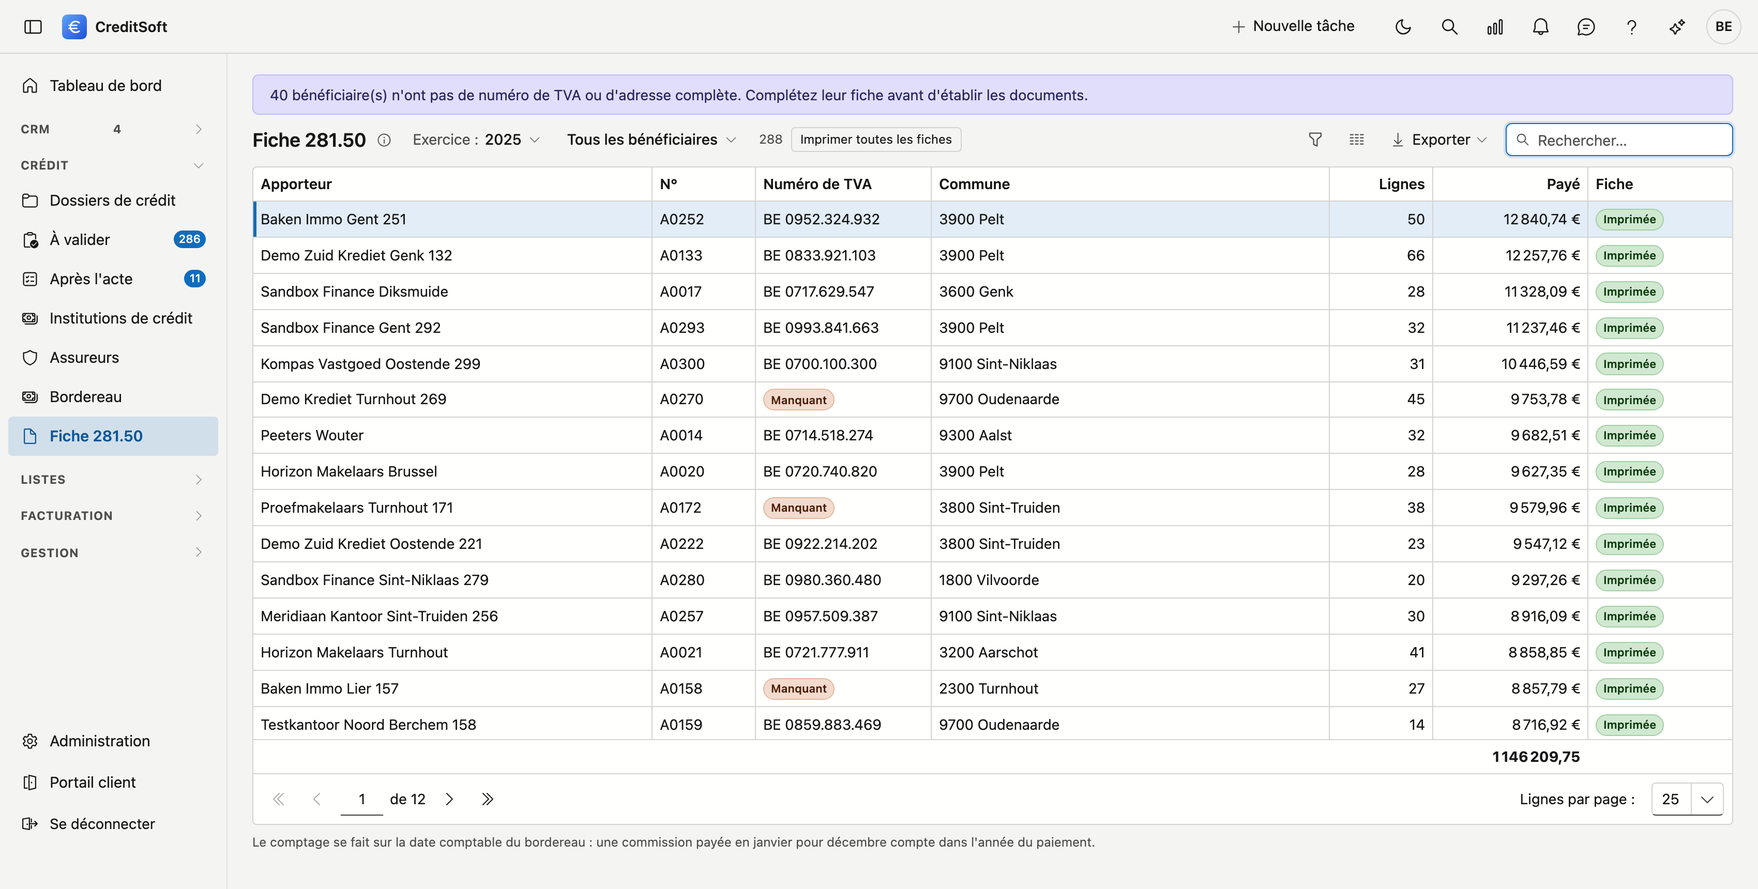
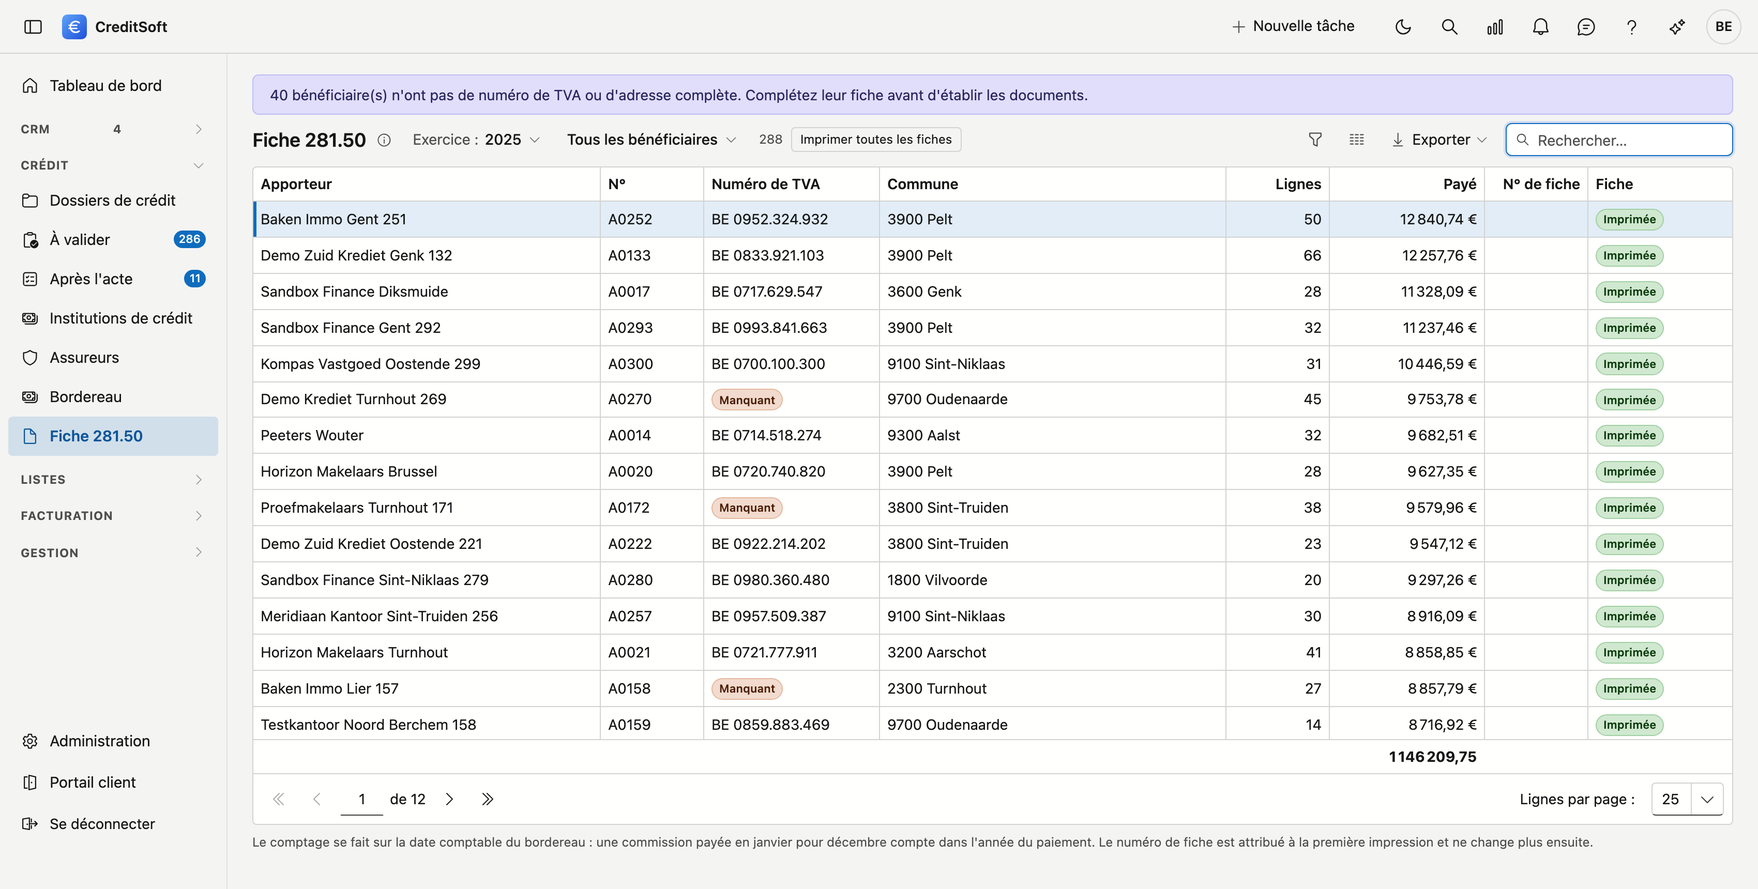
Fiche 281.50: volgnummer, en apart voor aanbrengers die zelf uitbetalen (app 1.203.4, NL+FR)
- Nieuwe portaalpagina Fiches 281.50 voor mijn makelaars (NL+FR), in de nav en de portaalindex.
- Fiche 281.50 (backoffice): kolom Fichenr., hoofdstuk Het fichenummer, en wat een aanbrenger zelf
  uitbetaalt staat niet in de lijst. Beeld NL/FR hernomen (app a103c75c, klok 01/09/2026).
- Borderel: wat een aanbrenger zelf afrekent staat niet in het overzicht of bij de borderellen; eigen reeks.
- Portaal › Afrekeningen: eigen nummerreeks van de borderellen.

diff --git a/docs/portaal/fiches-281-50.fr.md b/docs/portaal/fiches-281-50.fr.md
@@ -1,0 +1,67 @@
+# Fiches 281.50 pour mes courtiers
+
+Si vous versez des commissions à vos propres courtiers, vous êtes le **débiteur** de ces montants. Vous établissez vous-même leur fiche fiscale 281.50 ici, et vous la déclarez vous-même.
+
+!!! info "Pour qui ?"
+    Uniquement pour un bureau qui décompte des commissions à ses propres courtiers (voir [Décomptes à mes courtiers](afrekeningen.md)). La rubrique **Fiche 281.50** apparaît dans la barre de menu dès que vous avez décompté une première clôture.
+
+## Ouvrir l'écran
+
+Dans le portail, cliquez en haut sur **Fiche 281.50**.
+
+Vous ne voyez que ce que **vous** avez versé à vos courtiers. Ce que le bureau vous verse lui-même n'apparaît pas ici : cette fiche, c'est le bureau qui l'établit.
+
+## Sur quoi porte le comptage
+
+Le comptage se fait sur la **date du document de votre clôture** : le moment où l'argent est parti, et non le mois pour lequel la commission était comptabilisée. Une commission de décembre que vous décomptez en janvier compte dans l'année du paiement.
+
+!!! info "L'écran s'ouvre sur l'année précédente"
+    De l'année en cours, tout n'est par définition pas encore payé. Si vous souhaitez tout de même suivre ce qui est déjà parti cette année, choisissez l'exercice en cours.
+
+## Ce que vous voyez
+
+| Colonne | De quoi il s'agit |
+|---|---|
+| **Apporteur** | Le courtier qui a reçu la commission |
+| **N°** | Son numéro d'apporteur |
+| **Numéro de TVA** | Le numéro d'entreprise qui figurera sur la fiche |
+| **Commune** | Code postal et commune de son adresse |
+| **Lignes** | Le nombre d'écritures de commission comprises dans le montant |
+| **Payé** | Le total : c'est le montant qui figurera sur la fiche |
+| **N° de fiche** | Le numéro d'ordre de la fiche, dès que vous l'avez imprimée une première fois |
+| **Fiche** | Si vous en avez déjà imprimé une |
+
+Le total de ce qui est affiché figure au bas de la liste.
+
+## Qui reçoit une fiche
+
+Une fiche 281.50 s'adresse en principe à qui possède un **numéro de TVA**. Le filtre en haut porte par défaut sur *Tous les bénéficiaires*, afin que vous ayez d'abord la vue complète ; placez-le sur *Avec numéro de TVA* au moment d'imprimer.
+
+Ceux qui n'ont pas de numéro apparaissent en orange, avec la mention **Manquant**. En haut de l'écran, vous voyez combien de courtiers ont une donnée manquante : un numéro de TVA ou une adresse complète. Vous ne modifiez pas vous-même les données de vos courtiers dans le portail ; demandez au bureau de les compléter.
+
+!!! warning "Vos propres données figurent sur chaque fiche"
+    Vous figurez sur chaque fiche comme **débiteur des revenus**, avec votre nom, votre adresse et votre numéro de TVA. S'il manque quelque chose, un message apparaît en haut. Demandez au bureau de compléter vos données avant d'établir les fiches.
+
+## Imprimer les fiches
+
+**Double-cliquez** une ligne pour la fiche de ce seul courtier. Avec **Imprimer toutes les fiches**, vous en faites un document unique, avec une page par courtier.
+
+Dans les deux cas, l'aperçu avant impression s'ouvre : vous pouvez y **télécharger** le document.
+
+!!! danger "Un total annuel négatif n'est pas imprimé"
+    Si une récupération dépasse ce qu'un courtier a reçu cette année-là, son total est négatif. Un message rouge apparaît en haut et sa fiche n'est pas imprimée, pas non plus dans la liasse. Soumettez-la à votre comptable.
+
+!!! info "Chaque formulaire suit la langue du courtier"
+    La langue provient de la **langue de document** figurant sur sa fiche d'apporteur, et non de la langue de votre écran. Si aucune langue de document ne figure sur sa fiche, le formulaire reprend la vôtre.
+
+## Le numéro de fiche
+
+Chaque fiche reçoit à la rubrique 1 un **numéro d'ordre** : 1, 2, 3, et ainsi de suite, par année. Votre série est distincte de celle du bureau.
+
+Le numéro est attribué à la **première impression** de cette fiche. Si vous la réimprimez plus tard, elle garde le même numéro. C'est le numéro que vous reprenez sur le relevé récapitulatif 325.50.
+
+## La colonne Fiche
+
+Dès que vous imprimez une fiche, CreditSoft le retient pour ce courtier et cette année. La colonne passe de *Pas encore* à **Imprimée**.
+
+Si vous versez encore quelque chose à ce courtier durant cette même année, elle repasse sur *Pas encore* : ce montant ne figurait pas sur la fiche que vous avez envoyée. La nouvelle impression porte le même numéro de fiche.

diff --git a/docs/portaal/fiches-281-50.md b/docs/portaal/fiches-281-50.md
@@ -1,0 +1,67 @@
+# Fiches 281.50 voor mijn makelaars
+
+Betaalt u commissie uit aan eigen makelaars, dan bent u voor die bedragen de **schuldenaar**. U maakt hun fiscale fiche 281.50 hier zelf op, en u dient ze zelf in.
+
+!!! info "Voor wie is dit?"
+    Alleen voor een kantoor dat commissie aan eigen makelaars afrekent (zie [Afrekeningen aan mijn makelaars](afrekeningen.md)). Het onderdeel **Fiche 281.50** verschijnt in de menubalk zodra u een eerste ronde hebt afgerekend.
+
+## Het scherm openen
+
+Klik in het portaal bovenaan op **Fiche 281.50**.
+
+U ziet enkel wat **u** aan uw makelaars uitbetaalde. Wat het kantoor u zelf uitbetaalt, staat hier niet: die fiche maakt het kantoor op.
+
+## Waarop er geteld wordt
+
+Er wordt geteld op de **documentdatum van uw afrekenronde**: het moment dat het geld vertrok, niet de maand waarvoor de commissie geboekt stond. Commissie van december die u in januari afrekent, telt mee in het jaar van de betaling.
+
+!!! info "Het scherm opent op vorig jaar"
+    Van het lopende jaar is per definitie nog niet alles uitbetaald. Wilt u toch meekijken met wat er dit jaar al vertrokken is, kies dan het huidige boekjaar.
+
+## Wat u ziet
+
+| Kolom | Wat het is |
+|---|---|
+| **Aanbrenger** | De makelaar die de commissie ontving |
+| **Nr.** | Zijn aanbrengersnummer |
+| **Btw-nummer** | Het ondernemingsnummer dat op de fiche komt |
+| **Gemeente** | Postcode en gemeente uit zijn adres |
+| **Lijnen** | Hoeveel commissieboekingen er in het bedrag zitten |
+| **Uitbetaald** | Het totaal: dit is het bedrag dat op de fiche komt |
+| **Fichenr.** | Het volgnummer van de fiche, zodra u ze een eerste keer afdrukte |
+| **Fiche** | Of u er al een afdrukte |
+
+Onderaan de lijst staat het totaal van wat er zichtbaar is.
+
+## Wie er een fiche krijgt
+
+Een fiche 281.50 gaat in principe naar wie een **btw-nummer** heeft. De filter bovenaan staat standaard op *Alle begunstigden*, zodat u eerst het volledige beeld hebt; zet hem op *Met btw-nummer* wanneer u gaat afdrukken.
+
+Wie geen nummer heeft, staat in het oranje met de vermelding **Ontbreekt**. Bovenaan het scherm ziet u hoeveel makelaars er iets missen: een btw-nummer of een volledig adres. De gegevens van uw makelaars past u niet zelf aan in het portaal; vraag het kantoor om ze aan te vullen.
+
+!!! warning "Uw eigen gegevens staan op elke fiche"
+    U staat op elke fiche als **schuldenaar van de inkomsten**, met uw naam, uw adres en uw btw-nummer. Ontbreekt daar iets, dan staat er bovenaan een melding. Vraag het kantoor om uw gegevens aan te vullen vóór u de fiches opmaakt.
+
+## De fiches afdrukken
+
+**Dubbelklik** een regel voor de fiche van die ene makelaar. Met **Alle fiches afdrukken** maakt u er één document van, met een blad per makelaar.
+
+In beide gevallen opent het afdrukvoorbeeld, waar u het document kunt **downloaden**.
+
+!!! danger "Een negatief jaartotaal wordt niet afgedrukt"
+    Is een terugvordering groter dan wat een makelaar dat jaar ontving, dan is zijn totaal negatief. Bovenaan verschijnt een rode melding en zijn fiche wordt niet afgedrukt, ook niet in de stapel. Leg ze voor aan uw boekhouder.
+
+!!! info "Elk formulier volgt de taal van de makelaar"
+    De taal komt van de **documenttaal** op zijn aanbrengersfiche, niet van de taal van uw scherm. Staat er geen documenttaal op zijn fiche, dan volgt het formulier uw taal.
+
+## Het fichenummer
+
+Elke fiche krijgt in rubriek 1 een **volgnummer**: 1, 2, 3, en zo verder, per jaar. Uw reeks staat los van die van het kantoor.
+
+Het nummer wordt toegekend bij de **eerste afdruk** van die fiche. Drukt u ze later opnieuw af, dan houdt ze hetzelfde nummer. Dat is het nummer dat u overneemt op de samenvattende opgave 325.50.
+
+## De kolom Fiche
+
+Zodra u een fiche afdrukt, onthoudt CreditSoft dat voor die makelaar en dat jaar. De kolom springt van *Nog niet* naar **Afgedrukt**.
+
+Betaalt u daarna in datzelfde jaar nog iets uit aan die makelaar, dan gaat hij terug naar *Nog niet*: dat bedrag stond nog niet op de fiche die u verstuurde. De nieuwe afdruk draagt hetzelfde fichenummer.

diff --git a/docs/credit-management/fiche-281-50.fr.md b/docs/credit-management/fiche-281-50.fr.md
@@ -2,11 +2,13 @@
 
 La fiche fiscale pour les commissions que vous avez versées à des tiers. Par apporteur, le total effectivement payé durant l'année civile choisie, ainsi que le formulaire correspondant.
 
+Ce qu'un apporteur verse lui-même à ses propres courtiers n'apparaît pas dans cette liste et ne compte pas dans le total. Il est le débiteur de ces montants, et il établit ces fiches dans son [portail](../portaal/fiches-281-50.md).
+
 ## Ouvrir l'écran
 
 Dans le menu de gauche, cliquez sur **Fiche 281.50**, sous *Crédit*.
 
-![L'écran Fiche 281.50 : en haut le choix de l'exercice, un filtre sur les bénéficiaires et le bouton Imprimer toutes les fiches, en dessous la liste indiquant par ligne l'apporteur, son numéro, le numéro de TVA, la commune, le nombre de lignes, le montant payé et si la fiche a déjà été imprimée.](../images/fiche-281-50-fr.png "Ce qui a été versé à chaque apporteur durant une année civile"){ .volle-breedte }
+![L'écran Fiche 281.50 : en haut le choix de l'exercice, un filtre sur les bénéficiaires et le bouton Imprimer toutes les fiches, en dessous la liste indiquant par ligne l'apporteur, son numéro, le numéro de TVA, la commune, le nombre de lignes, le montant payé, le numéro de fiche et si la fiche a déjà été imprimée.](../images/fiche-281-50-fr.png "Ce qui a été versé à chaque apporteur durant une année civile"){ .volle-breedte }
 
 ## Sur quoi porte le comptage
 
@@ -29,6 +31,7 @@ Une [récupération pour remboursement anticipé](commission-clawback.md) est **
 | **Commune** | Code postal et commune de son adresse |
 | **Lignes** | Le nombre d'écritures de commission comprises dans le montant |
 | **Payé** | Le total — c'est le montant qui figurera sur la fiche |
+| **N° de fiche** | Le numéro d'ordre de la fiche, dès que vous l'avez imprimée une première fois |
 | **Fiche** | Si vous en avez déjà imprimé une |
 
 Le total de ce qui est affiché figure au bas de la liste.
@@ -58,13 +61,19 @@ Dans les deux cas, l'aperçu avant impression s'ouvre : vous pouvez y **téléch
 
 Le formulaire est celui du SPF Finances, avec les rubriques *a* à *g*. Votre bureau y apparaît comme **débiteur des revenus**, avec les données de votre [fiche d'entreprise](../administration/company-profile.md) ; l'apporteur comme **bénéficiaire**.
 
-Le montant de la commission figure à la rubrique **a** (*commissions, courtages, ristournes commerciales*) et à la rubrique **e** (*total*). Les autres rubriques restent à 0,00 — elles concernent les honoraires, les avantages de toute nature, les frais et les indemnités aux sportifs.
+La rubrique **1** porte le [numéro de fiche](#le-numero-de-fiche). Le montant de la commission figure à la rubrique **a** (*commissions, courtages, ristournes commerciales*) et à la rubrique **e** (*total*). Les autres rubriques restent à 0,00 — elles concernent les honoraires, les avantages de toute nature, les frais et les indemnités aux sportifs.
+
+## Le numéro de fiche
+
+Chaque fiche reçoit à la rubrique 1 un **numéro d'ordre** : 1, 2, 3, et ainsi de suite, par année. Un apporteur qui verse lui-même des commissions à ses propres courtiers a sa propre série.
+
+Le numéro est attribué à la **première impression** de cette fiche. Si vous la réimprimez plus tard, elle garde le même numéro. C'est le numéro que vous reprenez sur le relevé récapitulatif 325.50.
 
 ## La colonne Fiche
 
 Dès que vous imprimez une fiche, CreditSoft le retient pour ce bénéficiaire et cette année. La colonne passe de *Pas encore* à **Imprimée**.
 
-Si vous versez encore quelque chose à cet apporteur durant cette même année, elle repasse sur *Pas encore* — ce montant ne figurait en effet pas sur la fiche que vous avez envoyée.
+Si vous versez encore quelque chose à cet apporteur durant cette même année, elle repasse sur *Pas encore* — ce montant ne figurait en effet pas sur la fiche que vous avez envoyée. La nouvelle impression porte le même numéro de fiche.
 
 ## Les écrans liés
 

diff --git a/docs/credit-management/fiche-281-50.md b/docs/credit-management/fiche-281-50.md
@@ -2,11 +2,13 @@
 
 De fiscale fiche voor commissies die u aan derden betaalde. Per aanbrenger het totaal dat in het gekozen kalenderjaar effectief is uitbetaald, en het formulier dat daarbij hoort.
 
+Wat een aanbrenger zelf aan zijn eigen makelaars uitbetaalt, staat niet in deze lijst en telt niet mee in het totaal. Hij is voor die bedragen de schuldenaar, en maakt die fiches op in zijn [portaal](../portaal/fiches-281-50.md).
+
 ## Het scherm openen
 
 Klik in het menu links op **Fiche 281.50**, onder *Krediet*.
 
-![Het scherm Fiche 281.50: bovenaan de keuze van het boekjaar, een filter op begunstigden en de knop Alle fiches afdrukken, daaronder de lijst met per regel de aanbrenger, zijn nummer, het btw-nummer, de gemeente, het aantal lijnen, het uitbetaalde bedrag en of de fiche al afgedrukt is.](../images/fiche-281-50.png "Wat er in een kalenderjaar aan elke aanbrenger is uitbetaald"){ .volle-breedte }
+![Het scherm Fiche 281.50: bovenaan de keuze van het boekjaar, een filter op begunstigden en de knop Alle fiches afdrukken, daaronder de lijst met per regel de aanbrenger, zijn nummer, het btw-nummer, de gemeente, het aantal lijnen, het uitbetaalde bedrag, het fichenummer en of de fiche al afgedrukt is.](../images/fiche-281-50.png "Wat er in een kalenderjaar aan elke aanbrenger is uitbetaald"){ .volle-breedte }
 
 ## Waarop er geteld wordt
 
@@ -29,6 +31,7 @@ Een [terugvordering bij vervroegde terugbetaling](commission-clawback.md) telt *
 | **Gemeente** | Postcode en gemeente uit zijn adres |
 | **Lijnen** | Hoeveel commissieboekingen er in het bedrag zitten |
 | **Uitbetaald** | Het totaal — dit is het bedrag dat op de fiche komt |
+| **Fichenr.** | Het volgnummer van de fiche, zodra u ze een eerste keer afdrukte |
 | **Fiche** | Of u er al een afdrukte |
 
 Onderaan de lijst staat het totaal van wat er zichtbaar is.
@@ -58,13 +61,19 @@ In beide gevallen opent het afdrukvoorbeeld, waar u het document kunt **download
 
 Het formulier is dat van de FOD Financiën, met de rubrieken *a* tot *g*. Uw kantoor staat erop als **schuldenaar van de inkomsten**, met de gegevens uit uw [bedrijfsfiche](../administration/company-profile.md); de aanbrenger als **verkrijger**.
 
-Het commissiebedrag komt in rubriek **a** (*commissies, makelaarslonen, handelsrestorno's*) en in rubriek **e** (*totaal*). De andere rubrieken blijven op 0,00 — die gaan over erelonen, voordelen van alle aard, kosten en vergoedingen aan sportbeoefenaars.
+In rubriek **1** staat het [fichenummer](#het-fichenummer). Het commissiebedrag komt in rubriek **a** (*commissies, makelaarslonen, handelsrestorno's*) en in rubriek **e** (*totaal*). De andere rubrieken blijven op 0,00 — die gaan over erelonen, voordelen van alle aard, kosten en vergoedingen aan sportbeoefenaars.
+
+## Het fichenummer
+
+Elke fiche krijgt in rubriek 1 een **volgnummer**: 1, 2, 3, en zo verder, per jaar. Een aanbrenger die zijn eigen makelaars uitbetaalt, heeft een eigen reeks.
+
+Het nummer wordt toegekend bij de **eerste afdruk** van die fiche. Drukt u ze later opnieuw af, dan houdt ze hetzelfde nummer. Dat is het nummer dat u overneemt op de samenvattende opgave 325.50.
 
 ## De kolom Fiche
 
 Zodra u een fiche afdrukt, onthoudt CreditSoft dat voor die begunstigde en dat jaar. De kolom springt van *Nog niet* naar **Afgedrukt**.
 
-Betaalt u daarna in datzelfde jaar nog iets uit aan die aanbrenger, dan gaat hij terug naar *Nog niet* — dat bedrag stond immers nog niet op de fiche die u verstuurde.
+Betaalt u daarna in datzelfde jaar nog iets uit aan die aanbrenger, dan gaat hij terug naar *Nog niet* — dat bedrag stond immers nog niet op de fiche die u verstuurde. De nieuwe afdruk draagt hetzelfde fichenummer.
 
 ## Waar dit scherm mee samenhangt
 

diff --git a/docs/portaal/index.fr.md b/docs/portaal/index.fr.md
@@ -52,9 +52,10 @@ simplement le dossier apparaître dans votre propre liste.
 - [Apportés](aangebracht.fr.md) — les clients que l'apporteur a transmis, avec leur statut, et la transmission d'un nouveau client
 - [Mes commissions](commissies.fr.md) — par année, par mois et par écriture
 - [Décomptes à mes courtiers](afrekeningen.fr.md) — pour un bureau avec ses propres courtiers : ce qu'il leur a reversé et décompte
+- [Fiches 281.50 pour mes courtiers](fiches-281-50.fr.md) — pour un bureau avec ses propres courtiers : la fiche fiscale de ce qu'il leur a versé
 - [Documents](documenten.fr.md) — les documents que votre bureau partage avec les apporteurs
 
 !!! info "Toutes les rubriques ne figurent pas toujours dans la barre de menu"
     Une rubrique sans contenu n'apparaît pas. **Décomptes** apparaît dès que le bureau a reversé une commission à un
-    courtier, **Documents** dès que votre bureau partage des documents avec les apporteurs, et **Mes commissions**
+    courtier, **Fiche 281.50** dès qu'il a décompté une première clôture, **Documents** dès que votre bureau partage des documents avec les apporteurs, et **Mes commissions**
     uniquement avec la case *Afficher les commissions dans le portail*. Les images de ce manuel montrent la barre complète.

diff --git a/docs/credit-management/commission-statements.fr.md b/docs/credit-management/commission-statements.fr.md
@@ -26,6 +26,9 @@ Le filtre **Statut** en tête est sur **En attente** : uniquement ce qui ne figu
 
 Le second filtre vous permet de choisir une **année**.
 
+!!! info "Ce qu'un apporteur verse lui-même n'apparaît pas ici"
+    Si un apporteur reverse des commissions à ses propres courtiers, il les décompte lui-même dans son [portail](../portaal/afrekeningen.md). Ces montants n'apparaissent ni dans cet aperçu ni dans les bordereaux ci-dessous : vous ne les payez pas, et vous ne pouvez pas non plus les décompter ici.
+
 ## Onglet Bordereaux : ce qui est décompté
 
 Vous y trouvez chaque bordereau que vous avez créé : numéro, date du document, apporteur, montant et statut de paiement.
@@ -34,6 +37,8 @@ Vous y trouvez chaque bordereau que vous avez créé : numéro, date du document
 
 !!! info "Le numéro"
     Les bordereaux que vous créez dans CreditSoft reçoivent un numéro par année — *2026-0001*, *2026-0002*, et ainsi de suite. Les bordereaux plus anciens portent un numéro précédé d'un dièse, comme *#6127* : c'est la référence qui permet de les retrouver dans vos données.
+
+    Un apporteur qui décompte ses propres courtiers a sa propre série. Ses bordereaux ne prennent donc aucun numéro dans la vôtre.
 
 ### Créer une série
 

diff --git a/docs/credit-management/commission-statements.md b/docs/credit-management/commission-statements.md
@@ -26,6 +26,9 @@ De filter **Toestand** vooraan staat op **Openstaand**: enkel wat nog niet op ee
 
 Met de tweede filter kiest u een **jaar**.
 
+!!! info "Wat een aanbrenger zelf uitbetaalt, staat hier niet"
+    Geeft een aanbrenger commissie door aan zijn eigen makelaars, dan rekent hij die zelf af in zijn [portaal](../portaal/afrekeningen.md). Die bedragen staan niet in dit overzicht en niet bij de borderellen hieronder: u betaalt ze niet uit, en u kunt ze hier ook niet afrekenen.
+
 ## Tabblad Borderellen: wat er afgerekend is
 
 Hier staat elk borderel dat u ooit aanmaakte: nummer, documentdatum, aanbrenger, bedrag en of het betaald is.
@@ -34,6 +37,8 @@ Hier staat elk borderel dat u ooit aanmaakte: nummer, documentdatum, aanbrenger,
 
 !!! info "Het nummer"
     Borderellen die u in CreditSoft aanmaakt, krijgen een nummer per jaar — *2026-0001*, *2026-0002*, en zo verder. Bij oudere borderellen staat er een nummer met een hekje ervoor, zoals *#6127*: dat is het kenmerk waarmee dat borderel in uw gegevens terug te vinden is.
+
+    Een aanbrenger die zijn eigen makelaars afrekent, heeft een eigen reeks. Zijn borderellen nemen dus geen nummer uit de uwe.
 
 ### Een ronde aanmaken
 

diff --git a/docs/portaal/index.md b/docs/portaal/index.md
@@ -52,9 +52,10 @@ eigen lijst verschijnen.
 - [Aangebracht](aangebracht.md) — de klanten die de aanbrenger doorgaf, met hun status, en een nieuwe klant doorgeven
 - [Mijn commissies](commissies.md) — per jaar, per maand en per boeking
 - [Afrekeningen aan mijn makelaars](afrekeningen.md) — voor een kantoor met eigen makelaars: wat het hun doorgaf en afrekent
+- [Fiches 281.50 voor mijn makelaars](fiches-281-50.md) — voor een kantoor met eigen makelaars: de fiscale fiche van wat het hun uitbetaalde
 - [Documenten](documenten.md) — de documenten die uw kantoor met de aanbrengers deelt
 
 !!! info "Niet elk onderdeel staat altijd in de menubalk"
     Een onderdeel zonder inhoud blijft weg. **Afrekeningen** verschijnt zodra het kantoor commissie aan een makelaar
-    heeft doorgegeven, **Documenten** zodra uw kantoor documenten met de aanbrengers deelt, en **Mijn commissies**
+    heeft doorgegeven, **Fiche 281.50** zodra het een eerste ronde afrekende, **Documenten** zodra uw kantoor documenten met de aanbrengers deelt, en **Mijn commissies**
     enkel met het vinkje *Commissies tonen in het portaal*. De beelden in deze handleiding tonen de volledige balk.

diff --git a/docs/portaal/afrekeningen.fr.md b/docs/portaal/afrekeningen.fr.md
@@ -69,5 +69,6 @@ En bas figure ce que vous avez déjà décompté : la période, la date du docum
 le montant. Vous pouvez rechercher, trier et exporter la liste.
 
 **Cliquez sur une clôture** et son contenu apparaît en dessous : par courtier, son bordereau, avec le
-numéro et le montant. **Consulter** ouvre ce bordereau à l'écran — pas en téléchargement. Pour le conserver
+numéro et le montant. Vos bordereaux ont leur propre série de numéros par année, *2026-0001*, *2026-0002*
+et ainsi de suite, distincte de celle du bureau. **Consulter** ouvre ce bordereau à l'écran — pas en téléchargement. Pour le conserver
 ou le transmettre, utilisez le bouton d'enregistrement de votre navigateur.

diff --git a/docs/portaal/afrekeningen.md b/docs/portaal/afrekeningen.md
@@ -64,5 +64,6 @@ Onderaan staat wat u al afgerekend hebt: de periode, de documentdatum, het aanta
 bedrag. U kunt zoeken en sorteren, en de lijst exporteren.
 
 **Klik op een ronde** en eronder verschijnt wat erin zat: per makelaar zijn borderel, met het nummer en
-het bedrag. Met **Bekijken** opent u dat borderel in beeld — niet als download. Wilt u het bewaren of
+het bedrag. Uw borderellen hebben een eigen nummerreeks per jaar, *2026-0001*, *2026-0002* en zo verder,
+los van die van het kantoor. Met **Bekijken** opent u dat borderel in beeld — niet als download. Wilt u het bewaren of
 doorsturen, dan gebruikt u de bewaarknop van uw browser.
